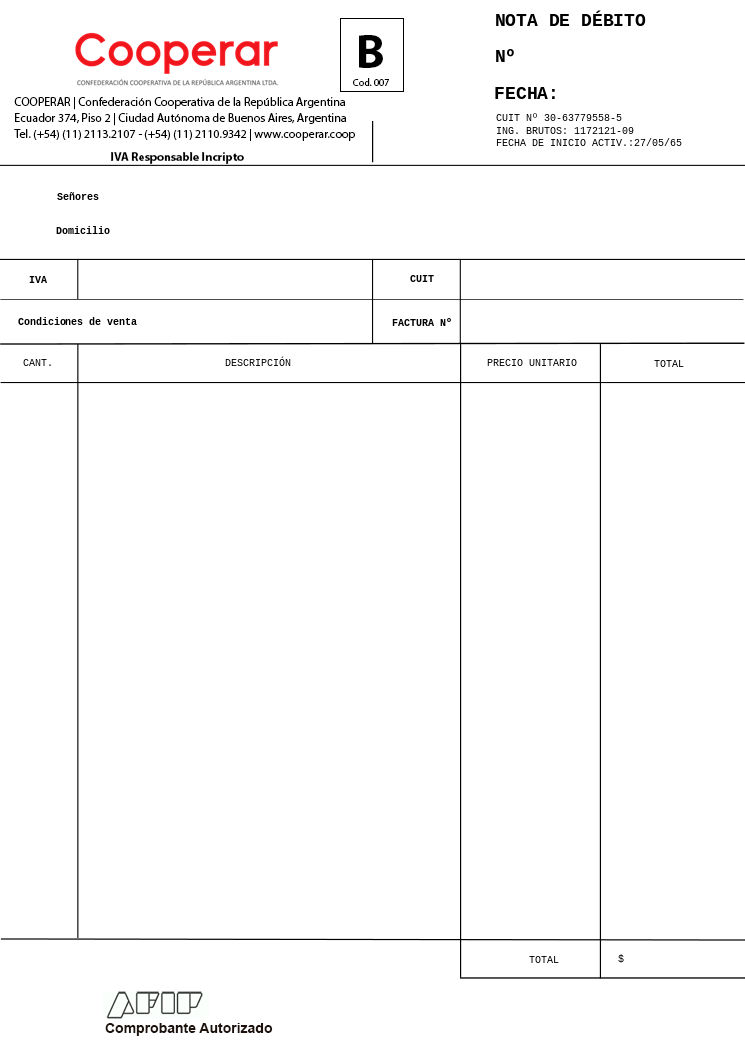
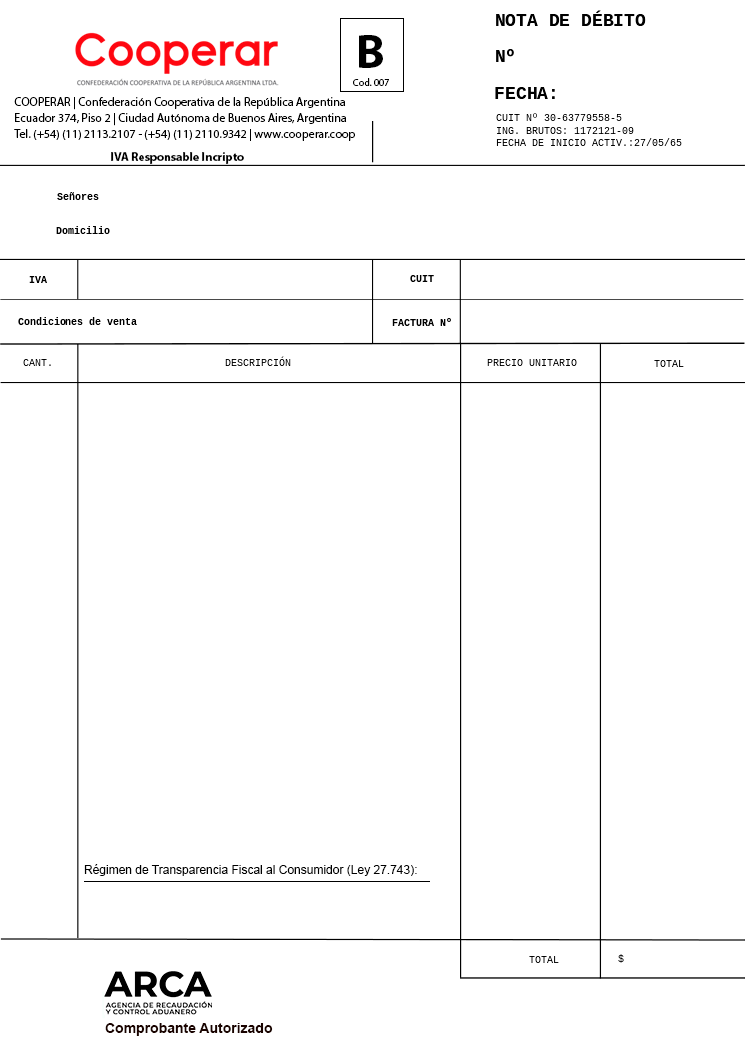
agrego el regimen 27743

Changed region(s): [[0.1235, 0.8205, 0.5557, 0.8509], [0.1235, 0.9117, 0.2779, 0.9725]]

diff --git a/report_creator.py b/report_creator.py
@@ -176,11 +176,24 @@ def footer_b(invoice):
 
 	subtotal = get_total_factura(invoice)
 
+	#calculo los montos para el regimen 27743
+	subtotaliva = 0
+	subtotalimp = 0
+	for tax_line in invoice.taxes:
+		tax = tax_line.tax
+		if tax.group.name == "IVA":
+			subtotaliva = subtotaliva + abs(tax_line.amount)
+		else:
+			subtotalimp = subtotalimp + abs(tax_line.amount)
+
+
 	ret = dict(
 		total = subtotal,
 		cae = 'CAE Nro: ' + str(invoice.pyafipws_cae),
 		vencecae = 'Vto.de CAE: ' + str(invoice.pyafipws_cae_due_date.strftime("%d/%m/%Y")),
-		codigo_qr = get_codigo_qr()
+		codigo_qr = get_codigo_qr(),
+		regimen_iva = "{:.2f}".format(subtotaliva),
+		regimen_impuestos = "{:.2f}".format(subtotalimp)
 	)
 	return ret
 
